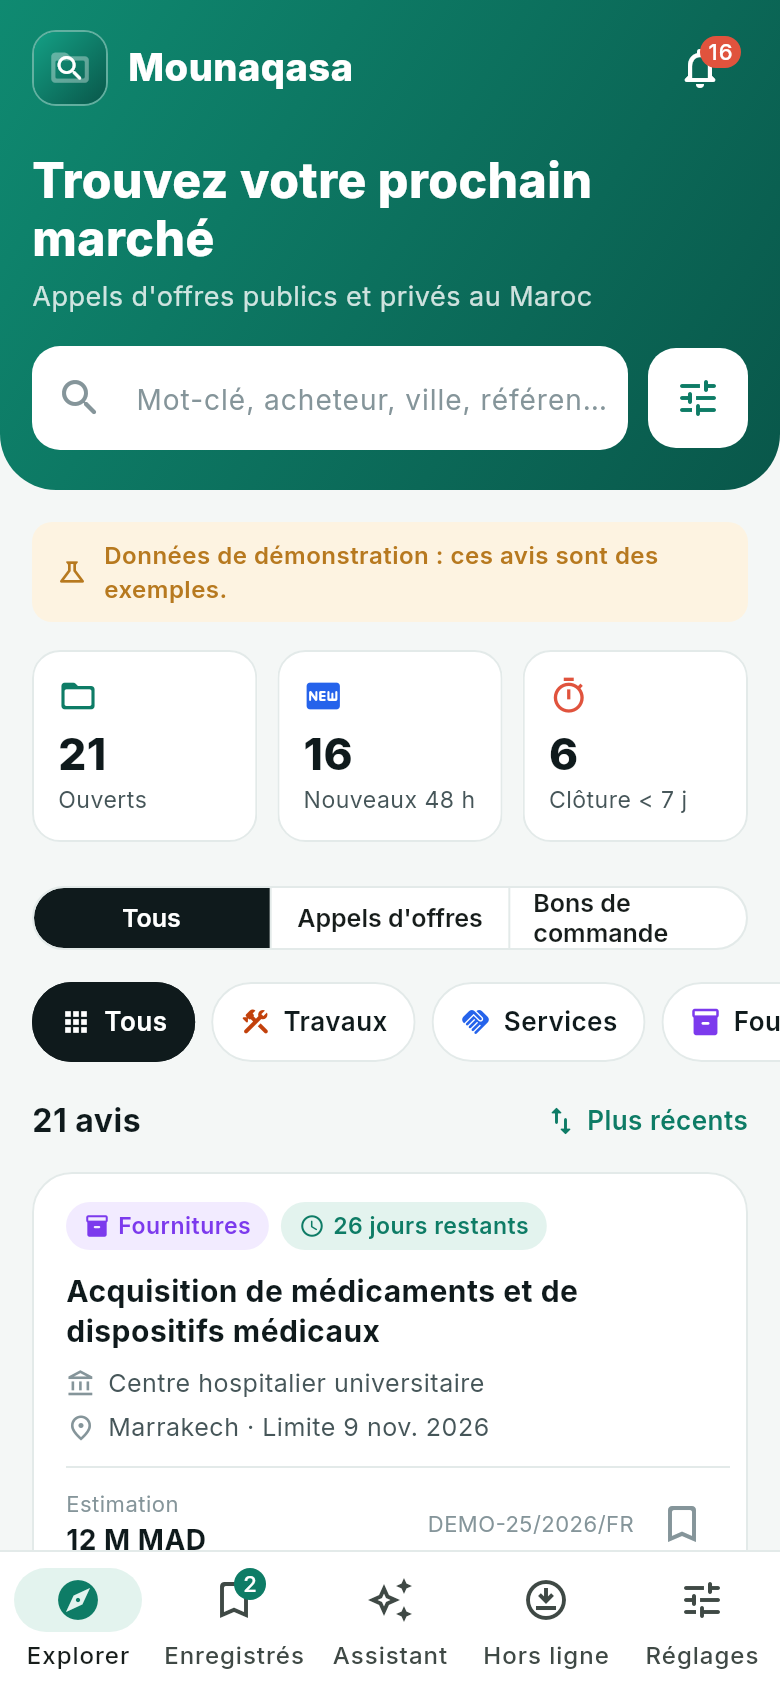
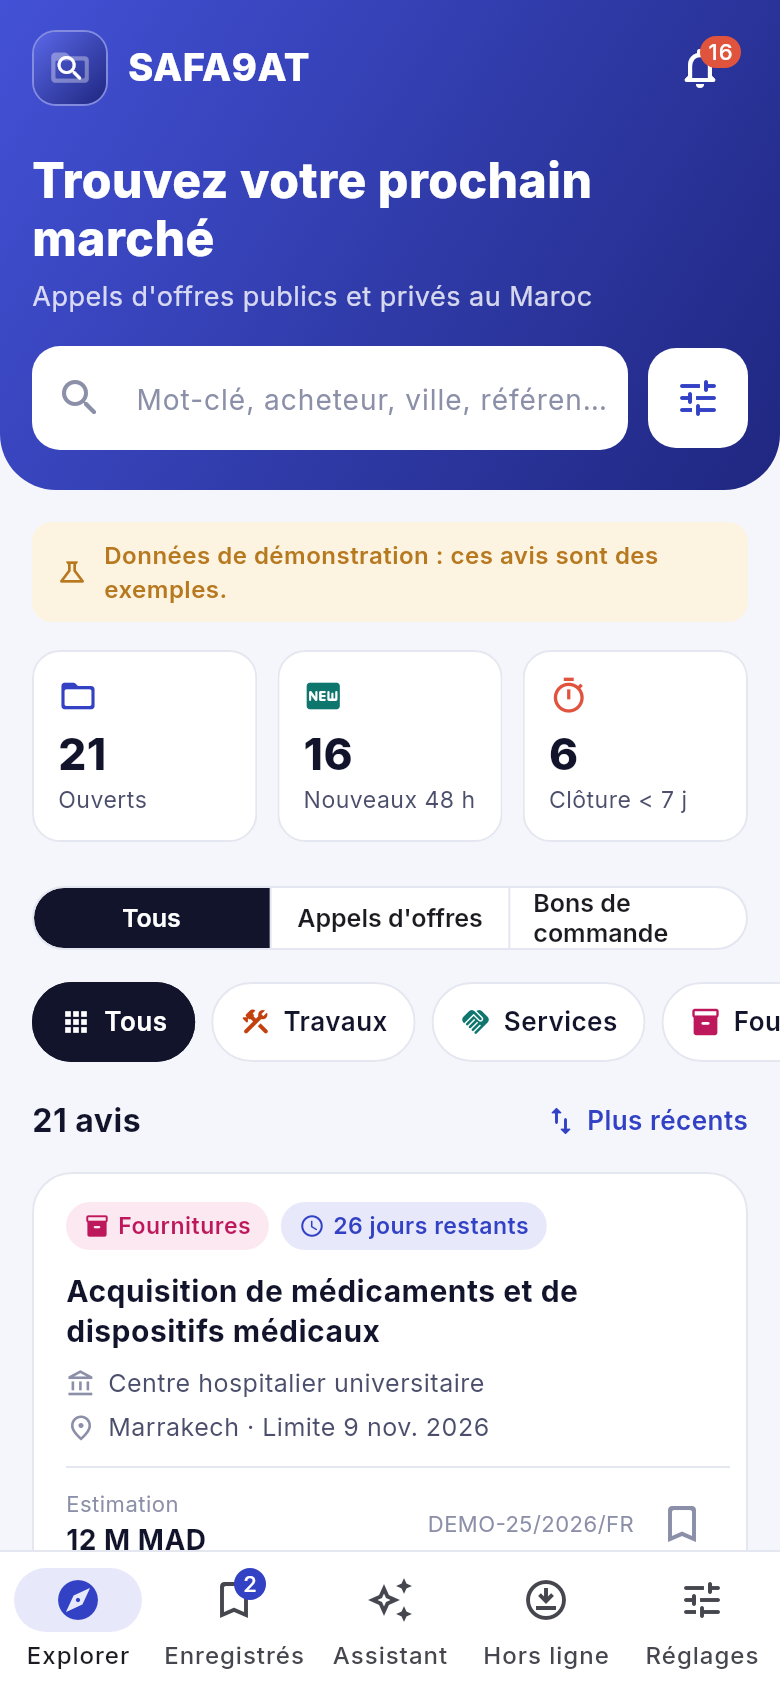
feat(appels d'offres): l'app devient SAFA9AT (صفقات), charte bleu Majorelle
- Nom affiché SAFA9AT / صفقات (config, Android, iOS, web)
- Identifiants ma.safa9at.app et paquet Dart safa9at
- Nouvelle palette : bleu indigo, corail pour l'urgence ; catégories
  terre cuite, sarcelle et framboise ; dégradés regroupés dans le thème
- Collecteur : User-Agent Safa9atBot
- Captures régénérées

Claude-Session: https://claude.ai/code/session_012f9k5A765xNWAFexh86cU8

diff --git a/mobile/tenders_app/lib/theme/theme.dart b/mobile/tenders_app/lib/theme/theme.dart
@@ -2,19 +2,18 @@ import 'package:flutter/material.dart';
 
 import '../i18n/i18n.dart';
 
-/// Charte « clair et vert d'eau » : fonds lumineux, vert émeraude profond pour l'action,
-/// corail pour l'urgence. Volontairement à l'opposé de l'app d'origine (fond anthracite,
-/// accents jaunes).
+/// Charte « bleu Majorelle » : fonds clairs légèrement bleutés, bleu indigo profond pour
+/// l'action, corail pour l'urgence, terre cuite, sarcelle et framboise pour les catégories.
 class K {
-  static const primary = Color(0xFF0E7C66);
-  static const primaryDark = Color(0xFF09574A);
-  static const primarySoft = Color(0xFFE3F3EE);
-  static const primaryTint = Color(0xFFF1F9F6);
-  static const ink = Color(0xFF0F1A1C);
-  static const body = Color(0xFF465659);
-  static const muted = Color(0xFF85959A);
-  static const line = Color(0xFFE3EAE9);
-  static const bg = Color(0xFFF4F7F6);
+  static const primary = Color(0xFF3341C4);
+  static const primaryDark = Color(0xFF1F2780);
+  static const primarySoft = Color(0xFFE7E9FB);
+  static const primaryTint = Color(0xFFF4F5FE);
+  static const ink = Color(0xFF12142B);
+  static const body = Color(0xFF4B4F6B);
+  static const muted = Color(0xFF8B8FA8);
+  static const line = Color(0xFFE5E7F0);
+  static const bg = Color(0xFFF5F6FB);
   static const surface = Color(0xFFFFFFFF);
   static const coral = Color(0xFFE0533D);
   static const coralSoft = Color(0xFFFDEBE7);
@@ -23,10 +22,15 @@ class K {
 
   static const travaux = Color(0xFFC2410C);
   static const travauxSoft = Color(0xFFFFEFE5);
-  static const services = Color(0xFF2563EB);
-  static const servicesSoft = Color(0xFFE8F0FF);
-  static const fournitures = Color(0xFF7C3AED);
-  static const fournituresSoft = Color(0xFFF2EBFF);
+  static const services = Color(0xFF0F766E);
+  static const servicesSoft = Color(0xFFE1F4F1);
+  static const fournitures = Color(0xFFBE185D);
+  static const fournituresSoft = Color(0xFFFCE8F1);
+
+  /// Dégradés de l'en-tête et du logo (du clair vers [primaryDark]).
+  static const headerStart = Color(0xFF4351D6);
+  static const logoStart = Color(0xFF5A67E8);
+  static const accent = Color(0xFF7C4DDB);
 }
 
 /// Rayons d'arrondi.
@@ -39,7 +43,7 @@ class R {
 }
 
 const softShadow = [
-  BoxShadow(color: Color(0x0D0F1A1C), blurRadius: 16, offset: Offset(0, 6)),
+  BoxShadow(color: Color(0x0D12142B), blurRadius: 16, offset: Offset(0, 6)),
 ];
 
 ThemeData appTheme() {

diff --git a/tenders_api/test/robots.test.js b/tenders_api/test/robots.test.js
@@ -6,22 +6,22 @@ import { isAllowed, parseRobots } from '../src/pmmp/robots.js';
 const SEARCH = '/index.php?page=entreprise.EntrepriseAdvancedSearch&AllCons';
 
 test('aucun robots.txt : tout est permis', () => {
-  assert.equal(isAllowed(parseRobots('', 'MounaqasaBot'), SEARCH), true);
+  assert.equal(isAllowed(parseRobots('', 'Safa9atBot'), SEARCH), true);
 });
 
 test('Disallow général', () => {
-  const rules = parseRobots('User-agent: *\nDisallow: /', 'MounaqasaBot');
+  const rules = parseRobots('User-agent: *\nDisallow: /', 'Safa9atBot');
   assert.equal(isAllowed(rules, SEARCH), false);
 });
 
 test('Disallow vide : tout est permis', () => {
-  assert.equal(isAllowed(parseRobots('User-agent: *\nDisallow:', 'MounaqasaBot'), SEARCH), true);
+  assert.equal(isAllowed(parseRobots('User-agent: *\nDisallow:', 'Safa9atBot'), SEARCH), true);
 });
 
 test('la règle la plus précise gagne, motifs et ancres', () => {
   const rules = parseRobots(
     ['User-agent: *', 'Disallow: /index.php', 'Allow: /index.php?page=entreprise.*Search', 'Disallow: /*.pdf$'].join('\n'),
-    'MounaqasaBot',
+    'Safa9atBot',
   );
   assert.equal(isAllowed(rules, SEARCH), true);
   assert.equal(isAllowed(rules, '/index.php?page=entreprise.EntrepriseDetailConsultation'), false);
@@ -30,8 +30,8 @@ test('la règle la plus précise gagne, motifs et ancres', () => {
 });
 
 test('un groupe qui nous nomme remplace le groupe « * »', () => {
-  const txt = 'User-agent: *\nDisallow: /\n\nUser-agent: MounaqasaBot\nDisallow: /admin';
-  const rules = parseRobots(txt, 'MounaqasaBot/1.0');
+  const txt = 'User-agent: *\nDisallow: /\n\nUser-agent: Safa9atBot\nDisallow: /admin';
+  const rules = parseRobots(txt, 'Safa9atBot/1.0');
   assert.equal(isAllowed(rules, SEARCH), true);
   assert.equal(isAllowed(rules, '/admin/x'), false);
 });

diff --git a/mobile/tenders_app/tool/captures_test.dart b/mobile/tenders_app/tool/captures_test.dart
@@ -11,15 +11,15 @@ import 'package:flutter/services.dart';
 import 'package:flutter_test/flutter_test.dart';
 import 'package:http/http.dart' as http;
 import 'package:http/testing.dart';
-import 'package:mounaqasa/data/tender_repository.dart';
-import 'package:mounaqasa/i18n/i18n.dart';
-import 'package:mounaqasa/main.dart';
-import 'package:mounaqasa/models/tender.dart';
-import 'package:mounaqasa/screens/alerts_screen.dart';
-import 'package:mounaqasa/screens/assistant_screen.dart';
-import 'package:mounaqasa/screens/filters_screen.dart';
-import 'package:mounaqasa/screens/tender_detail_screen.dart';
-import 'package:mounaqasa/state/app_state.dart';
+import 'package:safa9at/data/tender_repository.dart';
+import 'package:safa9at/i18n/i18n.dart';
+import 'package:safa9at/main.dart';
+import 'package:safa9at/models/tender.dart';
+import 'package:safa9at/screens/alerts_screen.dart';
+import 'package:safa9at/screens/assistant_screen.dart';
+import 'package:safa9at/screens/filters_screen.dart';
+import 'package:safa9at/screens/tender_detail_screen.dart';
+import 'package:safa9at/state/app_state.dart';
 import 'package:shared_preferences/shared_preferences.dart';
 
 import '../test/polices.dart';

diff --git a/tenders_api/test/push.test.js b/tenders_api/test/push.test.js
@@ -11,8 +11,8 @@ import { InvalidDevice, matchesPrefs, parseDevice } from '../src/push/prefs.js';
 
 const { privateKey, publicKey } = generateKeyPairSync('rsa', { modulusLength: 2048 });
 const ACCOUNT = {
-  project_id: 'mounaqasa-test',
-  client_email: 'push@mounaqasa-test.iam.gserviceaccount.com',
+  project_id: 'safa9at-test',
+  client_email: 'push@safa9at-test.iam.gserviceaccount.com',
   private_key: privateKey.export({ type: 'pkcs8', format: 'pem' }),
   private_key_id: 'cle1',
   token_uri: 'https://oauth2.test/token',
@@ -113,7 +113,7 @@ test('FCM : un seul jeton OAuth pour plusieurs envois, message au format v1', as
   assert.equal(await sender.send(TOKEN2, { title: 'T2', body: 'B2' }), 'ok');
   assert.equal(calls.filter((c) => c.url === ACCOUNT.token_uri).length, 1);
   const msg = calls.at(-1);
-  assert.equal(msg.url, 'https://fcm.googleapis.com/v1/projects/mounaqasa-test/messages:send');
+  assert.equal(msg.url, 'https://fcm.googleapis.com/v1/projects/safa9at-test/messages:send');
   assert.equal(msg.init.headers.Authorization, 'Bearer ya29.test');
   const body = JSON.parse(msg.init.body).message;
   assert.equal(body.token, TOKEN2);

diff --git a/mobile/tenders_app/test/push_test.dart b/mobile/tenders_app/test/push_test.dart
@@ -6,14 +6,14 @@ import 'package:flutter/material.dart';
 import 'package:flutter_test/flutter_test.dart';
 import 'package:http/http.dart' as http;
 import 'package:http/testing.dart';
-import 'package:mounaqasa/data/tender_repository.dart';
-import 'package:mounaqasa/i18n/i18n.dart';
-import 'package:mounaqasa/main.dart';
-import 'package:mounaqasa/push/device_sync.dart';
-import 'package:mounaqasa/push/push_service.dart';
-import 'package:mounaqasa/screens/alerts_screen.dart';
-import 'package:mounaqasa/screens/tender_detail_screen.dart';
-import 'package:mounaqasa/state/app_state.dart';
+import 'package:safa9at/data/tender_repository.dart';
+import 'package:safa9at/i18n/i18n.dart';
+import 'package:safa9at/main.dart';
+import 'package:safa9at/push/device_sync.dart';
+import 'package:safa9at/push/push_service.dart';
+import 'package:safa9at/screens/alerts_screen.dart';
+import 'package:safa9at/screens/tender_detail_screen.dart';
+import 'package:safa9at/state/app_state.dart';
 import 'package:shared_preferences/shared_preferences.dart';
 
 import 'polices.dart';

diff --git a/tenders_api/test/collector.test.js b/tenders_api/test/collector.test.js
@@ -74,7 +74,7 @@ function setup(portal, overrides = {}) {
   const store = openDb(':memory:');
   const client = new PoliteClient({
     baseUrl: BASE,
-    userAgent: 'MounaqasaBot/1.0 (+test@example.ma)',
+    userAgent: 'Safa9atBot/1.0 (+test@example.ma)',
     delayMs: 15,
     timeoutMs: 2000,
     maxConsecutiveErrors: 3,
@@ -117,7 +117,7 @@ test('politesse : une requête à la fois, pause, identité et cookie de session
   for (let i = 1; i < portal.requests.length; i++) {
     assert.ok(portal.requests[i].at - portal.requests[i - 1].at >= 14, `pause avant la requête ${i}`);
   }
-  for (const q of portal.requests) assert.equal(q.headers['User-Agent'], 'MounaqasaBot/1.0 (+test@example.ma)');
+  for (const q of portal.requests) assert.equal(q.headers['User-Agent'], 'Safa9atBot/1.0 (+test@example.ma)');
   assert.equal(portal.requests[0].path, '/robots.txt');
   assert.match(portal.requests.at(-1).headers.Cookie, /PHPSESSID=abc/);
 });

diff --git a/mobile/tenders_app/test/bdc_test.dart b/mobile/tenders_app/test/bdc_test.dart
@@ -1,13 +1,13 @@
 import 'package:flutter/material.dart';
 import 'package:flutter_test/flutter_test.dart';
-import 'package:mounaqasa/data/assistant.dart';
-import 'package:mounaqasa/data/demo_tenders.dart';
-import 'package:mounaqasa/i18n/i18n.dart';
-import 'package:mounaqasa/main.dart';
-import 'package:mounaqasa/models/alert_prefs.dart';
-import 'package:mounaqasa/models/filter.dart';
-import 'package:mounaqasa/models/tender.dart';
-import 'package:mounaqasa/state/app_state.dart';
+import 'package:safa9at/data/assistant.dart';
+import 'package:safa9at/data/demo_tenders.dart';
+import 'package:safa9at/i18n/i18n.dart';
+import 'package:safa9at/main.dart';
+import 'package:safa9at/models/alert_prefs.dart';
+import 'package:safa9at/models/filter.dart';
+import 'package:safa9at/models/tender.dart';
+import 'package:safa9at/state/app_state.dart';
 import 'package:shared_preferences/shared_preferences.dart';
 
 import 'polices.dart';

diff --git a/mobile/tenders_app/lib/screens/assistant_screen.dart b/mobile/tenders_app/lib/screens/assistant_screen.dart
@@ -101,7 +101,7 @@ class _AssistantScreenState extends State<AssistantScreen> {
               height: 34,
               decoration: BoxDecoration(
                 gradient: const LinearGradient(
-                  colors: [K.primary, Color(0xFF6D5BD0)],
+                  colors: [K.primary, K.accent],
                 ),
                 borderRadius: BorderRadius.circular(11),
               ),
@@ -155,7 +155,7 @@ class _AssistantScreenState extends State<AssistantScreen> {
                           height: 72,
                           decoration: BoxDecoration(
                             gradient: const LinearGradient(
-                              colors: [K.primary, Color(0xFF6D5BD0)],
+                              colors: [K.primary, K.accent],
                             ),
                             borderRadius: BorderRadius.circular(24),
                           ),

diff --git a/mobile/tenders_app/test/ai_test.dart b/mobile/tenders_app/test/ai_test.dart
@@ -6,12 +6,12 @@ import 'package:flutter/material.dart';
 import 'package:flutter_test/flutter_test.dart';
 import 'package:http/http.dart' as http;
 import 'package:http/testing.dart';
-import 'package:mounaqasa/ai/ai_summary.dart';
-import 'package:mounaqasa/data/tender_repository.dart';
-import 'package:mounaqasa/i18n/i18n.dart';
-import 'package:mounaqasa/main.dart';
-import 'package:mounaqasa/screens/tender_detail_screen.dart';
-import 'package:mounaqasa/state/app_state.dart';
+import 'package:safa9at/ai/ai_summary.dart';
+import 'package:safa9at/data/tender_repository.dart';
+import 'package:safa9at/i18n/i18n.dart';
+import 'package:safa9at/main.dart';
+import 'package:safa9at/screens/tender_detail_screen.dart';
+import 'package:safa9at/state/app_state.dart';
 import 'package:shared_preferences/shared_preferences.dart';
 
 import 'polices.dart';

diff --git a/mobile/tenders_app/test/api_test.dart b/mobile/tenders_app/test/api_test.dart
@@ -5,11 +5,11 @@ import 'package:flutter/material.dart';
 import 'package:flutter_test/flutter_test.dart';
 import 'package:http/http.dart' as http;
 import 'package:http/testing.dart';
-import 'package:mounaqasa/data/tender_repository.dart';
-import 'package:mounaqasa/i18n/i18n.dart';
-import 'package:mounaqasa/main.dart';
-import 'package:mounaqasa/models/tender.dart';
-import 'package:mounaqasa/state/app_state.dart';
+import 'package:safa9at/data/tender_repository.dart';
+import 'package:safa9at/i18n/i18n.dart';
+import 'package:safa9at/main.dart';
+import 'package:safa9at/models/tender.dart';
+import 'package:safa9at/state/app_state.dart';
 import 'package:shared_preferences/shared_preferences.dart';
 
 import 'polices.dart';

diff --git a/mobile/tenders_app/test/logique_test.dart b/mobile/tenders_app/test/logique_test.dart
@@ -1,10 +1,10 @@
 import 'package:flutter_test/flutter_test.dart';
-import 'package:mounaqasa/data/assistant.dart';
-import 'package:mounaqasa/data/demo_tenders.dart';
-import 'package:mounaqasa/i18n/i18n.dart';
-import 'package:mounaqasa/models/alert_prefs.dart';
-import 'package:mounaqasa/models/filter.dart';
-import 'package:mounaqasa/models/tender.dart';
+import 'package:safa9at/data/assistant.dart';
+import 'package:safa9at/data/demo_tenders.dart';
+import 'package:safa9at/i18n/i18n.dart';
+import 'package:safa9at/models/alert_prefs.dart';
+import 'package:safa9at/models/filter.dart';
+import 'package:safa9at/models/tender.dart';
 
 void main() {
   final now = DateTime(2026, 10, 14, 9);

diff --git a/mobile/tenders_app/lib/widgets/common.dart b/mobile/tenders_app/lib/widgets/common.dart
@@ -6,7 +6,7 @@ import '../models/tender.dart';
 import '../state/scope.dart';
 import '../theme/theme.dart';
 
-/// Logo : une loupe sur un dossier, dans un carré arrondi vert.
+/// Logo : une loupe sur un dossier, dans un carré arrondi bleu.
 class AppLogo extends StatelessWidget {
   final double size;
   const AppLogo({super.key, this.size = 40});
@@ -21,7 +21,7 @@ class AppLogo extends StatelessWidget {
         gradient: const LinearGradient(
           begin: Alignment.topLeft,
           end: Alignment.bottomRight,
-          colors: [Color(0xFF14A085), K.primaryDark],
+          colors: [K.logoStart, K.primaryDark],
         ),
       ),
       child: Stack(
